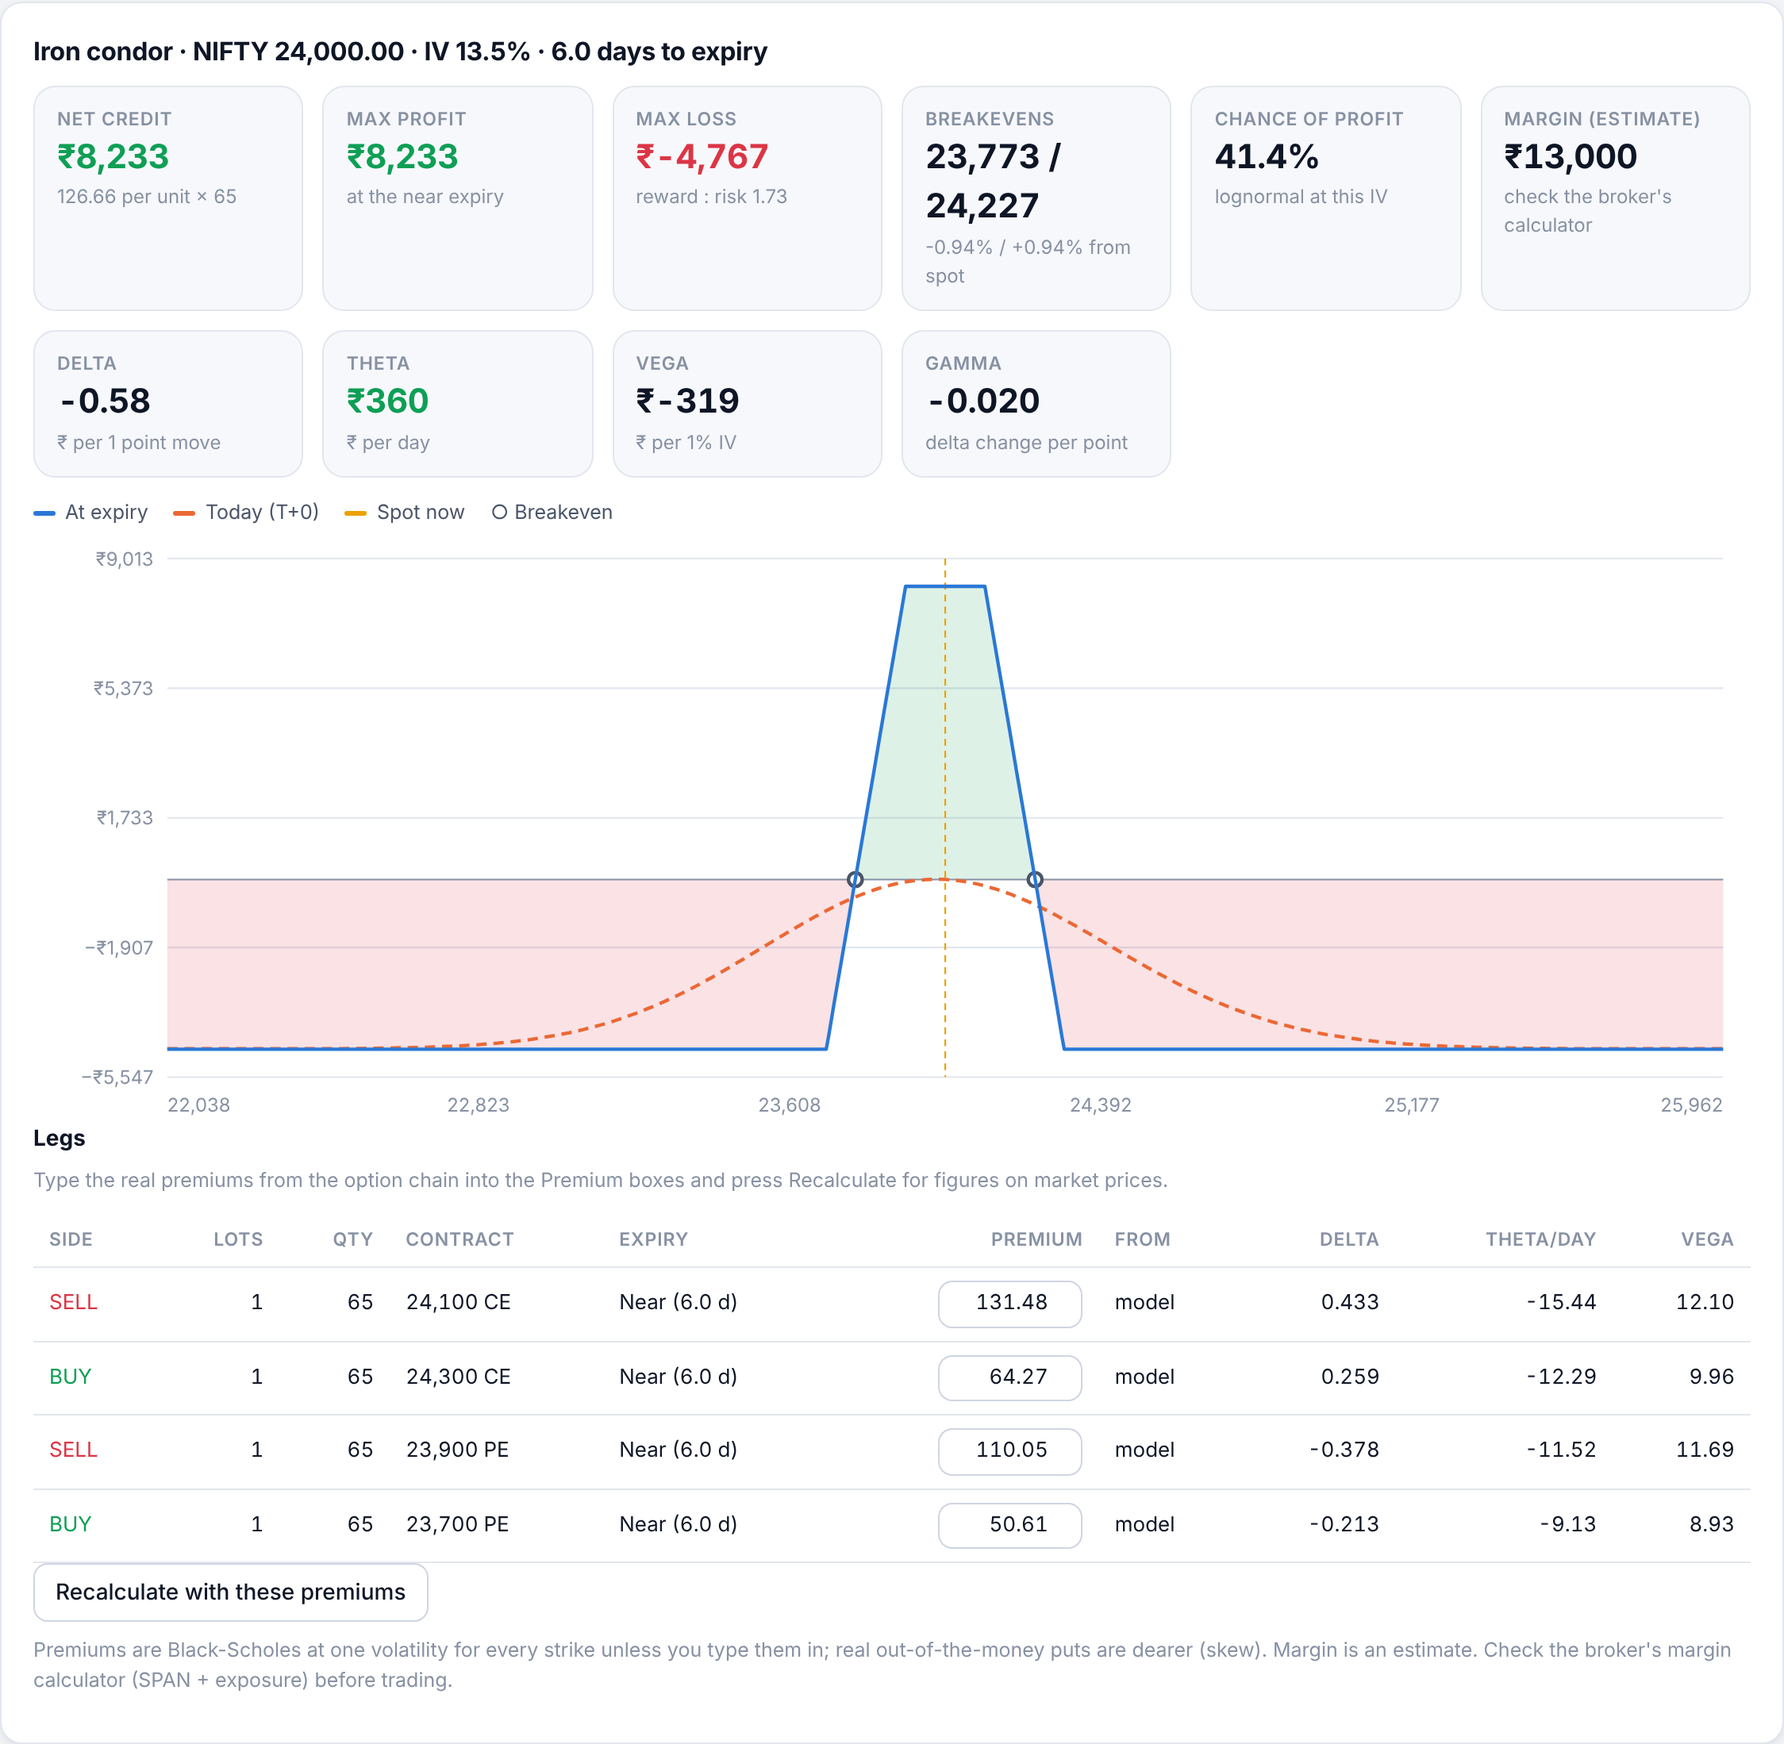
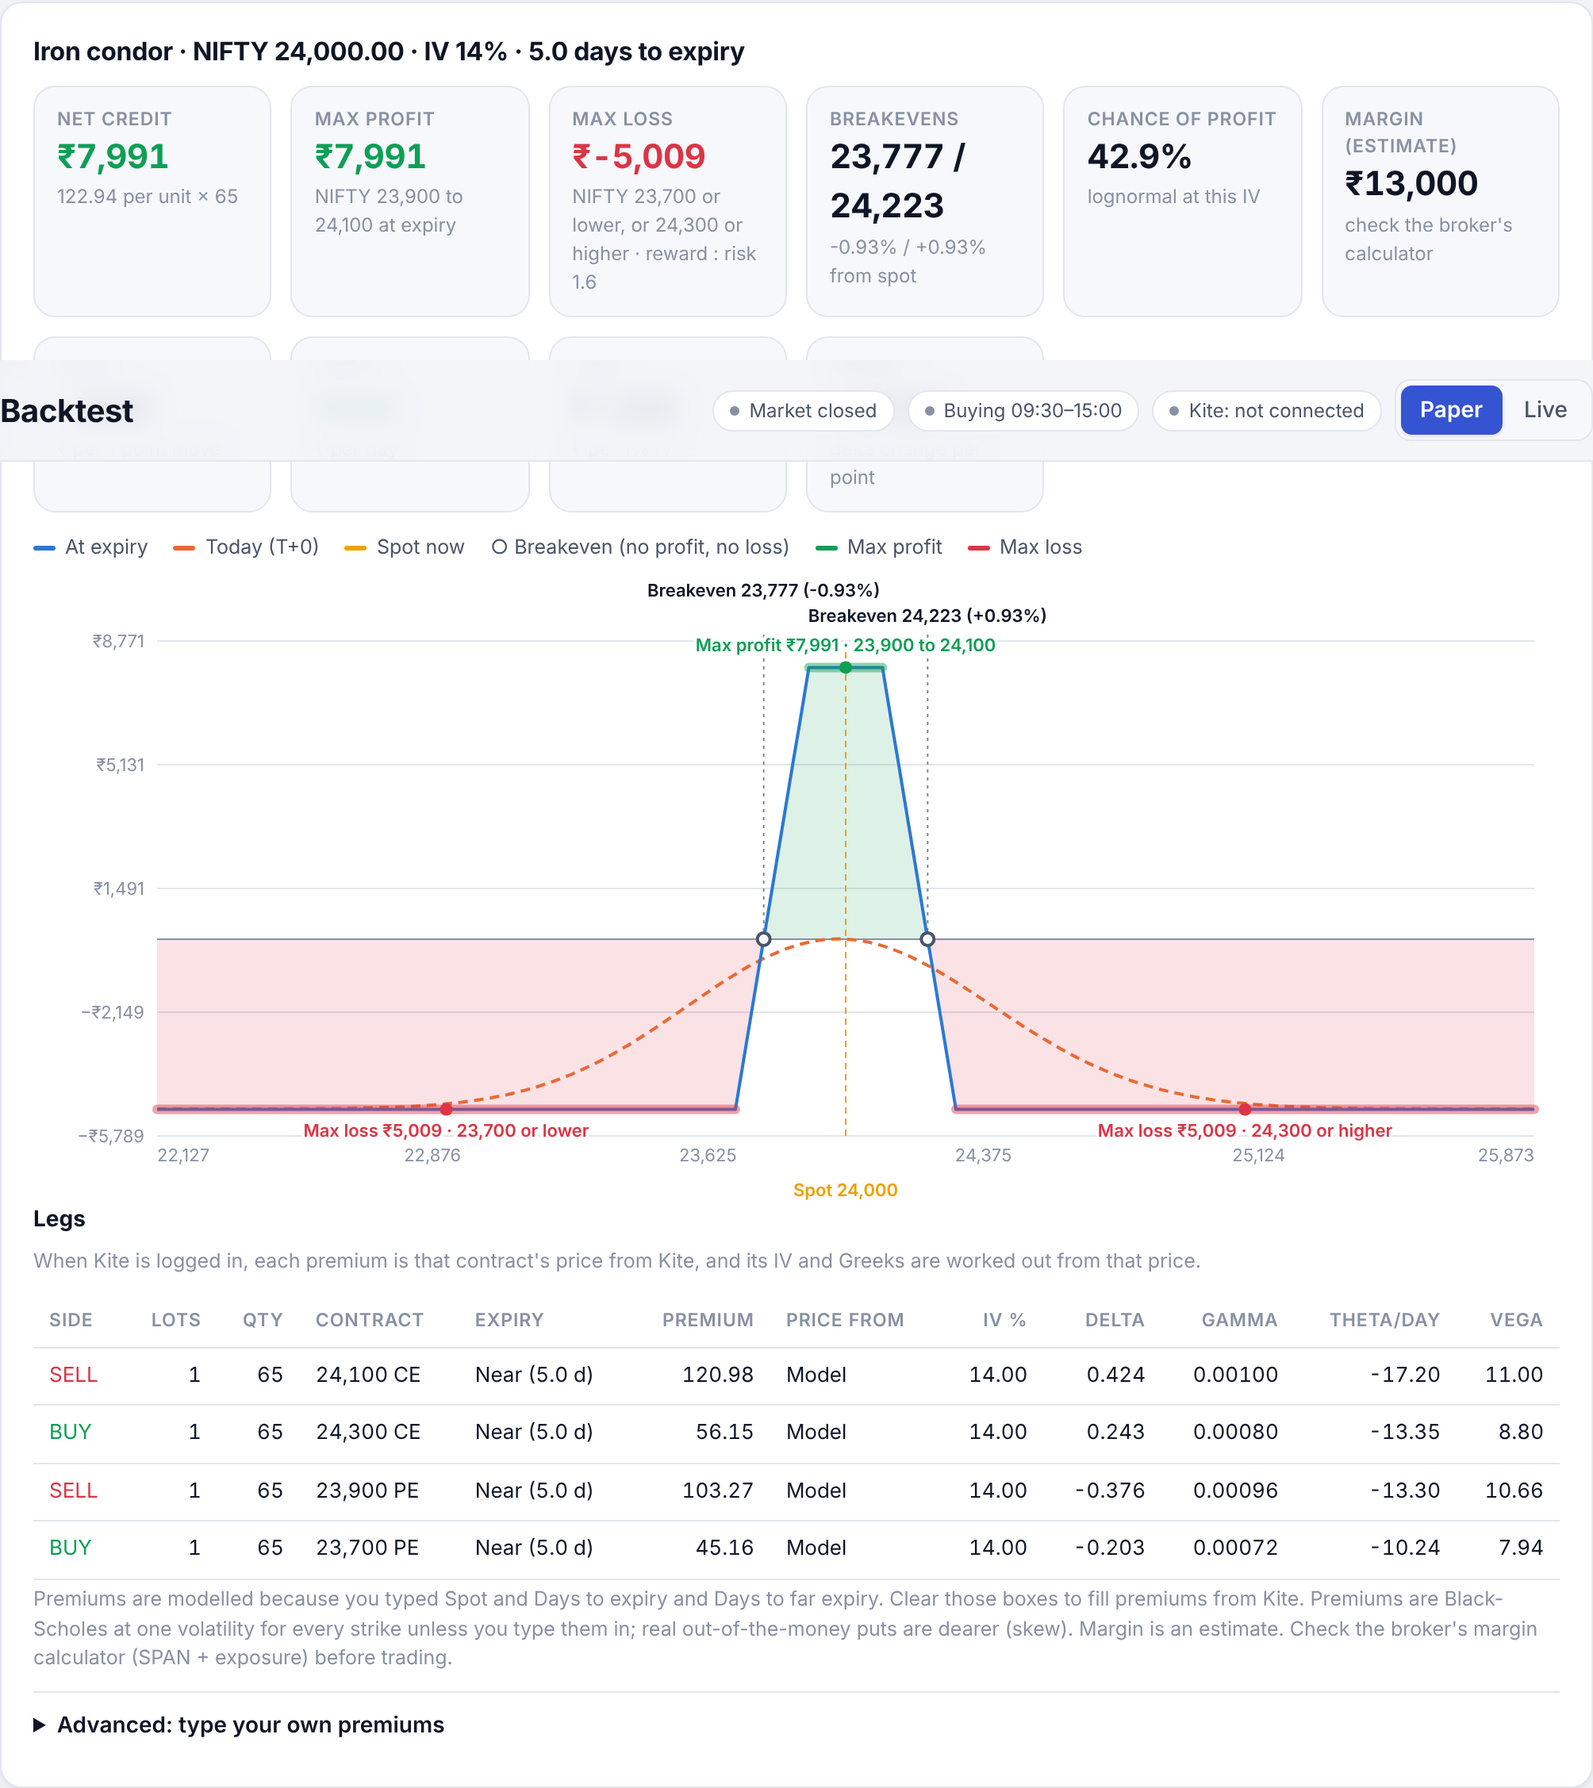
Payoff now: mark index levels of max profit, max loss, breakevens and spot on the chart
optstrat.analyse returns max_profit_at / max_loss_at (index runs where each
extreme sits). The chart labels each with its rupee figure and range, each
breakeven with its distance from spot, spot under the axis, and Unlimited at
the edge. Chart draws at its box width so labels stay readable on a phone.

Claude-Session: https://claude.ai/code/session_01ASoqcm4tHazFvXhYF7U1ZZ

diff --git a/desk/static/app.js b/desk/static/app.js
@@ -2868,6 +2868,14 @@
       busy(button, false);
     };
     $("#sbt-payoff").addEventListener("click", (event) => payoff(event.currentTarget, null));
+    let resizeTimer = null, drawnWidth = 0;
+    window.addEventListener("resize", () => {
+      clearTimeout(resizeTimer);
+      resizeTimer = setTimeout(() => {
+        const host = $("#sbt-payoff-chart"), w = host.clientWidth;
+        if (lastPayoff && !$("#sbt-payoff-result").hidden && Math.abs(w - drawnWidth) > 24) { drawnWidth = w; drawPayoff(host, $("#sbt-payoff-legend"), lastPayoff); }
+      }, 200);
+    });
     $("#sbt-payoff-again").addEventListener("click", (event) => {
       const boxes = $$("#sbt-payoff-inputs input[name=premium]"), legs = lastPayoff ? lastPayoff.legs : [];
       const values = [], labels = [];
@@ -2888,8 +2896,9 @@
     $("#sbt-payoff-title").textContent = `${r.name} · ${r.underlying} ${inr2.format(r.spot)} · IV ${r.iv_pct}% · ${r.days.toFixed(1)} days to expiry${far}`;
     $("#sbt-payoff-tiles").replaceChildren(
       tile(r.credit ? "Net credit" : "Net debit", rupees(Math.abs(r.net_rupees)), `${inr2.format(Math.abs(r.net_premium))} per unit × ${r.quantity}`, r.credit ? "pos" : "neg"),
-      tile("Max profit", r.unlimited_profit ? "Unlimited" : rupees(r.max_profit), "at the near expiry", "pos"),
-      tile("Max loss", r.unlimited_loss ? "Unlimited" : rupees(r.max_loss), r.reward_risk != null ? `reward : risk ${r.reward_risk}` : null, "neg"),
+      tile("Max profit", r.unlimited_profit ? "Unlimited" : rupees(r.max_profit), extremeWhere(r, r.unlimited_profit, r.max_profit_at) + " at expiry", "pos"),
+      tile("Max loss", r.unlimited_loss ? "Unlimited" : rupees(r.max_loss),
+        [extremeWhere(r, r.unlimited_loss, r.max_loss_at), r.reward_risk != null ? `reward : risk ${r.reward_risk}` : null].filter(Boolean).join(" · "), "neg"),
       tile("Breakeven" + (r.breakevens.length === 1 ? "" : "s"), r.breakevens.length ? r.breakevens.map((b) => inr.format(b)).join(" / ") : "–",
         r.breakevens.length ? r.breakevens.map((b) => pct((b / r.spot - 1) * 100)).join(" / ") + " from spot" : "none in range"),
       tile("Chance of profit", r.pop_pct == null ? "–" : r.pop_pct + "%", "lognormal at this IV"),
@@ -2920,6 +2929,20 @@
     $("#sbt-payoff-result").scrollIntoView({ behavior: "smooth", block: "start" });
   }
 
+  // Index level(s) of a maximum, in words: a run {from, to}; from 0 reaches down to a crash, to null carries on above.
+  function levelWords(run) {
+    if (run.from === 0 && run.to === 0) return "on a fall to 0";
+    if (run.from === 0) return `${inr.format(run.to)} or lower`;
+    if (run.to == null) return `${inr.format(run.from)} or higher`;
+    if (run.from === run.to) return `at ${inr.format(run.from)}`;
+    return `${inr.format(run.from)} to ${inr.format(run.to)}`;
+  }
+
+  function extremeWhere(r, unlimited, runs) {
+    if (unlimited) return `as ${r.underlying} rises`;
+    return runs && runs.length ? `${r.underlying} ${runs.map(levelWords).join(runs.length > 1 && runs.some((x) => x.from === 0 || x.to == null) ? ", or " : " or ")}` : "";
+  }
+
   function premiumSource(source) {
     return { "Kite live": "Kite, live", "Kite last price": "Kite, last trade", "Kite previous close": "Kite, previous close",
       model: "Model", given: "Typed", typed: "Typed" }[source] || source;
@@ -2927,7 +2950,9 @@
 
   function drawPayoff(host, legend, r) {
     const NS = "http://www.w3.org/2000/svg";
-    const W = 1000, H = 340, pad = { l: 78, r: 16, t: 12, b: 26 };
+    // Drawn at the box's own width (labels stay 11px on a phone), redrawn when the window is resized.
+    const W = Math.round(Math.min(Math.max(host.clientWidth || 1000, 340), 1000)), H = W < 640 ? 330 : 396;
+    const pad = { l: W < 640 ? 62 : 78, r: 16, t: 42, b: 42 };
     const svg = (tag, attrs) => { const el = document.createElementNS(NS, tag); for (const [k, v] of Object.entries(attrs)) el.setAttribute(k, v); return el; };
     const pts = r.payoff, xs = pts.map((p) => p.spot), all = pts.flatMap((p) => [p.expiry, p.today]);
     let lo = Math.min(0, ...all), hi = Math.max(0, ...all);
@@ -2942,9 +2967,10 @@
       root.append(svg("line", { class: "grid", x1: pad.l, x2: W - pad.r, y1: yy, y2: yy }));
       const label = svg("text", { x: pad.l - 8, y: yy + 4, "text-anchor": "end" }); label.textContent = compact(value); root.append(label);
     }
-    for (let i = 0; i <= 5; i++) {
-      const v = x0 + ((x1 - x0) * i) / 5;
-      const label = svg("text", { x: x(v), y: H - 6, "text-anchor": i === 0 ? "start" : i === 5 ? "end" : "middle" }); label.textContent = inr.format(v); root.append(label);
+    const ticks = W < 640 ? 3 : 5;
+    for (let i = 0; i <= ticks; i++) {
+      const v = x0 + ((x1 - x0) * i) / ticks;
+      const label = svg("text", { x: x(v), y: H - pad.b + 16, "text-anchor": i === 0 ? "start" : i === ticks ? "end" : "middle" }); label.textContent = inr.format(v); root.append(label);
     }
     // Profit shaded green, loss red, under the expiry line.
     const area = (keep, color) => {
@@ -2956,12 +2982,57 @@
     area((v) => Math.max(v, 0), "var(--good)"); area((v) => Math.min(v, 0), "var(--bad)");
     root.append(svg("line", { x1: pad.l, x2: W - pad.r, y1: y(0), y2: y(0), stroke: "var(--muted)", "stroke-width": 1 }));
     root.append(svg("line", { x1: x(r.spot), x2: x(r.spot), y1: pad.t, y2: H - pad.b, stroke: "var(--s4)", "stroke-width": 1, "stroke-dasharray": "4 3" }));
-    r.breakevens.forEach((b) => root.append(svg("circle", { cx: x(b), cy: y(0), r: 4, fill: "var(--surface)", stroke: "var(--text2)", "stroke-width": 2 })));
+    r.breakevens.forEach((b) => root.append(svg("line", { x1: x(b), x2: x(b), y1: pad.t - 4, y2: y(0), stroke: "var(--text2)", "stroke-width": 1, "stroke-dasharray": "2 3", opacity: 0.7 })));
     const line = (key, color, dash) => {
       const d = pts.map((p, i) => `${i ? "L" : "M"}${x(p.spot).toFixed(1)},${y(p[key]).toFixed(1)}`).join("");
       root.append(svg("path", { d, fill: "none", stroke: color, "stroke-width": 2, "stroke-dasharray": dash || "none", "stroke-linejoin": "round" }));
     };
     line("today", "var(--s2)", "6 4"); line("expiry", "var(--s1)");
+    r.breakevens.forEach((b) => root.append(svg("circle", { cx: x(b), cy: y(0), r: 4, fill: "var(--surface)", stroke: "var(--text2)", "stroke-width": 2 })));
+    const left = pad.l, right = W - pad.r;
+    // Bold, with a halo in the page colour so a label stays readable where it crosses a line.
+    const text = (str, attrs) => { const el = svg("text", { "font-weight": 600, "paint-order": "stroke", stroke: "var(--surface)", "stroke-width": 4, "stroke-linejoin": "round", ...attrs });
+      el.textContent = str; root.append(el); return el; };
+    const width = (str) => str.length * 6.4;
+    // Breakevens: labels above the plot, in two rows, pushed right when both rows are taken. Spot: under the axis.
+    const rowEnds = [-Infinity, -Infinity];
+    r.breakevens.forEach((b) => {
+      const str = `Breakeven ${inr.format(b)} (${pct((b / r.spot - 1) * 100)})`, w = width(str);
+      let cx = Math.min(Math.max(x(b), left + w / 2), right - w / 2);
+      let row = rowEnds.findIndex((end) => cx - w / 2 > end + 8);
+      if (row < 0) { row = rowEnds[0] <= rowEnds[1] ? 0 : 1; cx = rowEnds[row] + 8 + w / 2; }
+      rowEnds[row] = cx + w / 2;
+      text(str, { x: cx, y: 14 + row * 16, "text-anchor": "middle", style: "fill:var(--text)" });
+    });
+    const spotStr = `Spot ${inr.format(r.spot)}`, sw = width(spotStr);
+    text(spotStr, { x: Math.min(Math.max(x(r.spot), left + sw / 2), right - sw / 2), y: H - 4, "text-anchor": "middle", style: "fill:var(--s4)" });
+    // Max profit and max loss: highlight the index range on the expiry line and say the index level(s).
+    // Profit labels go above the line and loss labels below it: at an extreme the rest of the curve is on the other side.
+    // A label that would overlap one already placed goes to the other side of the line.
+    const placed = [];
+    const extreme = (runs, value, title, color, above) => runs.forEach((run) => {
+      const from = Math.max(run.from, x0), to = run.to == null ? x1 : Math.min(run.to, x1), yy = y(value);
+      const words = `${title} ${compact(Math.abs(value))} · ${levelWords(run)}`, w = width(words);
+      let cx, anchor = "middle";
+      if (to < x0) { cx = left + 4; anchor = "start"; }
+      else if (from > x1) { cx = right - 4; anchor = "end"; }
+      else {
+        root.append(svg("line", { x1: x(from), x2: x(Math.max(to, from)), y1: yy, y2: yy, stroke: color, "stroke-width": 6, "stroke-linecap": "round", opacity: 0.45 }));
+        root.append(svg("circle", { cx: x((from + to) / 2), cy: yy, r: 4, fill: color }));
+        cx = Math.min(Math.max(x((from + to) / 2), left + w / 2 + 2), right - w / 2 - 2);
+      }
+      const x0b = anchor === "start" ? cx : anchor === "end" ? cx - w : cx - w / 2;
+      let ty = above ? yy - 10 : yy + 17;
+      if (placed.some((b) => b.y === ty && x0b < b.x1 + 8 && x0b + w > b.x0 - 8)) ty = above ? yy + 17 : yy - 10;
+      placed.push({ x0: x0b, x1: x0b + w, y: ty });
+      text((to < x0 ? "← " : "") + words + (from > x1 ? " →" : ""), { x: cx, y: ty, "text-anchor": anchor, style: `fill:${color}` });
+    });
+    const unlimited = (title, color, up) => {
+      const last = pts[pts.length - 1];
+      text(`${title} unlimited as ${r.underlying} rises →`, { x: right - 4, y: Math.min(Math.max(y(last.expiry) + (up ? -10 : 17), pad.t - 2), H - pad.b + 2), "text-anchor": "end", style: `fill:${color}` });
+    };
+    if (r.unlimited_profit) unlimited("Profit", "var(--good)", true); else extreme(r.max_profit_at || [], r.max_profit, "Max profit", "var(--good)", true);
+    if (r.unlimited_loss) unlimited("Loss", "var(--bad)", false); else extreme(r.max_loss_at || [], r.max_loss, "Max loss", "var(--bad)", false);
     const cross = svg("line", { class: "cross", y1: pad.t, y2: H - pad.b, visibility: "hidden" });
     root.append(cross);
     const tip = $("#tooltip");
@@ -2980,7 +3051,8 @@
     root.addEventListener("pointerleave", () => { cross.setAttribute("visibility", "hidden"); tip.hidden = true; });
     host.replaceChildren(root);
     legend.replaceChildren(h("span", {}, h("i", { style: "background:var(--s1)" }), "At expiry"), h("span", {}, h("i", { style: "background:var(--s2)" }), "Today (T+0)"),
-      h("span", {}, h("i", { style: "background:var(--s4)" }), "Spot now"), h("span", {}, "○ Breakeven"));
+      h("span", {}, h("i", { style: "background:var(--s4)" }), "Spot now"), h("span", {}, "○ Breakeven (no profit, no loss)"),
+      h("span", {}, h("i", { style: "background:var(--good)" }), "Max profit"), h("span", {}, h("i", { style: "background:var(--bad)" }), "Max loss"));
   }
 
   function startPortfolios() {

diff --git a/desk/optstrat.py b/desk/optstrat.py
@@ -811,6 +811,25 @@ def analyse(underlying: str, structure: str, *, spot: float, iv: float, days: fl
     finite = at_expiry + [floor, pnl_at(far_up, True)]
     max_profit = None if unlimited_profit else max(finite)
     max_loss = None if unlimited_loss else min(finite)
+    # Where on the index each extreme sits, as runs of levels {"from", "to"} at the near expiry. "from" 0 means the
+    # run reaches down to a crash; "to" None means it carries on above the chart (flat beyond the last strike).
+    levels = [(0.0, floor)] + list(zip(grid, at_expiry, strict=True)) + [(None, pnl_at(far_up, True))]
+
+    def where(best: float | None) -> list[dict]:
+        if best is None:
+            return []
+        tol = 0.01 + 1e-6 * abs(best)
+        runs, run = [], None
+        for lvl, p in levels:
+            if abs(p - best) <= tol:
+                run = run or {"from": lvl, "to": lvl}
+                run["to"] = None if lvl is None else round(lvl, 2)
+            elif run:
+                runs.append(run)
+                run = None
+        if run:
+            runs.append(run)
+        return [r for r in runs if r["from"] is not None]   # far-out only: not a level a trader can act on
 
     # Chance of profit at the near expiry: lognormal index at iv with drift r (risk-neutral), over the profit zones.
     pop = None
@@ -847,6 +866,7 @@ def analyse(underlying: str, structure: str, *, spot: float, iv: float, days: fl
         "credit": net > 0, "max_profit": None if max_profit is None else round(max_profit, 2),
         "max_loss": None if max_loss is None else round(max_loss, 2),
         "unlimited_profit": unlimited_profit, "unlimited_loss": unlimited_loss,
+        "max_profit_at": where(max_profit), "max_loss_at": where(max_loss),
         "breakevens": [round(b, 2) for b in breakevens], "pop_pct": pop, "greeks": greeks,
         "margin": round(margin, 0),
         "reward_risk": (round(max_profit / -max_loss, 2) if max_profit is not None and max_loss not in (None, 0) and max_loss < 0

diff --git a/tests/test_desk_optstrat.py b/tests/test_desk_optstrat.py
@@ -193,3 +193,18 @@ def test_api_payoff(tmp_path):
         assert "one value per leg" in client.post("/api/options/payoff", json={"structure": "short_straddle", "spot": 24000,
                                                                                "iv_pct": 14, "premiums": [1]}).json()["error"]
     app.state.kite.disconnect()
+
+
+def test_where_the_maximum_profit_and_loss_sit_on_the_index():
+    condor = given("iron_condor", [100, 40, 90, 30], k=2, w=4)      # short 23900/24100, wings 23700/24300
+    assert condor["max_profit_at"] == [{"from": 23900, "to": 24100}]
+    assert condor["max_loss_at"] == [{"from": 0, "to": 23700}, {"from": 24300, "to": None}]
+    fly = given("long_call_butterfly", [330, 200, 110], w=4)          # peak at 24000
+    assert fly["max_profit_at"] == [{"from": 24000, "to": 24000}]
+    straddle = given("short_straddle", [200, 180])
+    assert straddle["unlimited_loss"] and straddle["max_loss_at"] == []
+    assert straddle["max_profit_at"] == [{"from": 24000, "to": 24000}]
+    back = given("put_ratio_backspread", [180, 80], w=4)               # profit grows all the way down to a crash
+    assert back["max_profit_at"] == [{"from": 0, "to": 0}] and back["max_loss_at"] == [{"from": 23800, "to": 23800}]
+    bull = given("bull_call_spread", [200, 110], w=4)                  # buy 24000 CE, sell 24200 CE
+    assert bull["max_profit_at"] == [{"from": 24200, "to": None}] and bull["max_loss_at"] == [{"from": 0, "to": 24000}]

diff --git a/desk/static/manual/USER_MANUAL.md b/desk/static/manual/USER_MANUAL.md
@@ -945,6 +945,7 @@ The model prices every leg with Black-Scholes at one volatility. For figures on 
 |---|---|
 | **Net credit / Net debit** | Premium received (credit) or paid (debit) for the whole position, and per unit. |
 | **Max profit / Max loss** | The best and worst result at the near expiry, in rupees. **Unlimited** means it keeps growing as the index moves further. A fall stops at zero, so a loss on the downside is always a number, though it can be very large. |
+| **On the chart** | The index level of each figure is written on the chart: **Max profit** and **Max loss** with the index range where they happen (for example *23,900 to 24,100*, or *23,700 or lower*), each **Breakeven** (no profit, no loss) with its distance from spot, and **Spot** under the axis. A thick band on the line marks the range. **Unlimited** sides are labelled at the chart's edge instead of a number. |
 | **Breakevens** | Index levels where the expiry P&L is zero, and how far they are from spot. |
 | **Chance of profit** | The chance the index ends in a profit zone at the near expiry, at this IV (lognormal). It ignores skew and fat tails. A high chance of profit usually comes with a large maximum loss. |
 | **Margin (estimate)** | Covered legs: the worst loss at expiry from the strikes. Uncovered short options and futures: **Margin %** of the contract value. Bought options are paid in full, less the premium of the sold ones (not for calendars and diagonals). Check Zerodha's margin calculator before trading. |
